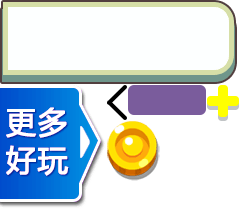
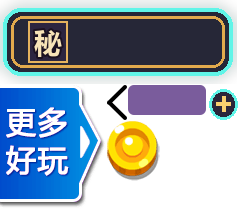
Make visible UI polish and fix runtime cache

diff --git a/sw.js b/sw.js
@@ -11,8 +11,17 @@ self.addEventListener("fetch", (event) => {
   const url = new URL(request.url);
   if (url.origin !== self.location.origin) return;
   event.respondWith((async () => {
-    const cached = await caches.match(request, { ignoreSearch: true });
-    if (cached) return cached;
-    return fetch(request);
+    try {
+      const response = await fetch(request);
+      if (request.method === "GET" && response && response.ok) {
+        const cache = await caches.open("magic-alley-runtime-v2");
+        cache.put(request, response.clone());
+      }
+      return response;
+    } catch (error) {
+      const cached = await caches.match(request, { ignoreSearch: true });
+      if (cached) return cached;
+      throw error;
+    }
   })());
 });